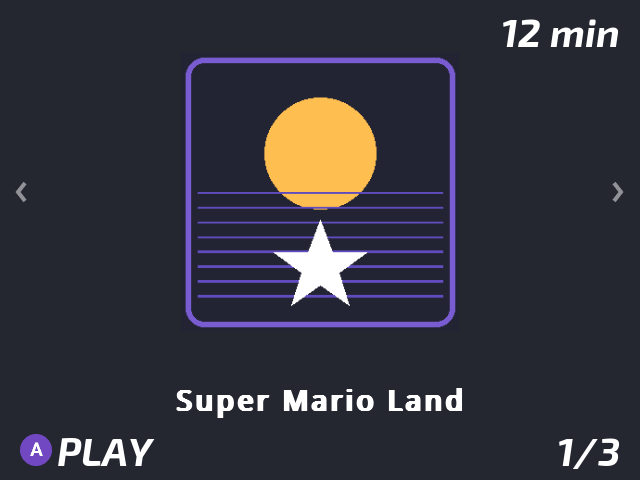
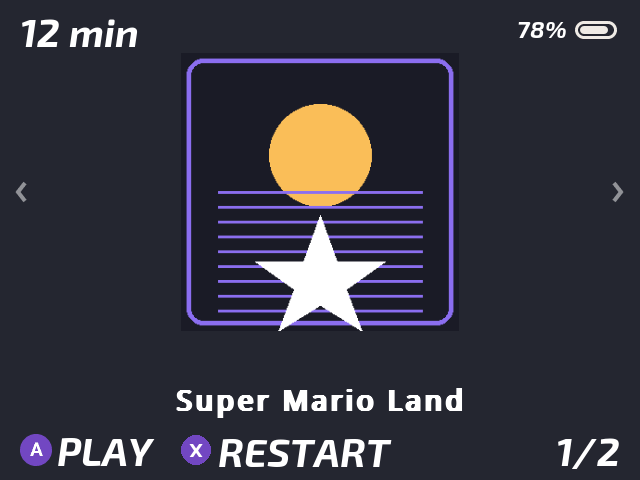
Re-shoot the screenshots, and fix what they exposed
Rebuilt the preview harness the earlier shots came from: kidui compiled
for the host against Onion's common tree with KIDUI_SCREENSHOT_DIR, run
under SDL's dummy driver against a fake SD card carrying Onion's stock
theme. These are real renders from this branch's code, not mockups.

Rendering them immediately found a regression I had shipped: matching the
header chip's font to the battery (as asked) put it in the theme's HINT
face, which is wider than the list font it used to use — so "12 min left"
was drawing as "12 min..." and the add-time preview as "12 -> 17...".
Widening the box wasn't enough without crowding the centred title, so the
strings are shorter now: "12 min", "12 -> 17", "12 -> off". The row
itself supplies the units. Verified by rendering all three variants.

The harness also answers a question I had left open: the X/RESTART icon
renders the right way up. It goes through the same 180-degree loader
correction as the box art, and the host build takes the same path, so
what these show is what the device draws.

Screenshots now show the current UI: battery in Onion's own style top
right, play-time chip moved left, X = RESTART in the footer, and the
parent menu with Brightness, Auto-resume last game and Change PIN.

Claude-Session: https://claude.ai/code/session_011DUEHJHXjMnBq3JQJgX124

diff --git a/src/kidsMode/kidui.c b/src/kidsMode/kidui.c
@@ -797,17 +797,20 @@ static void renderMenu(List *list, int remaining)
     // for) lives as a compact chip on the empty left side of the header bar.
     // The title is centered and starts well to the right, so a short left
     // chip never overlaps it.
+    // Kept short on purpose: the theme's HINT face is wide and the centred
+    // title starts around x=240, so "12 min left" and "12 min -> off" were
+    // being cut to "12 min...". The row itself supplies the units.
     char chip[64] = "";
     int rem_min = remaining >= 0 ? (remaining + 59) / 60 : -1;
     int add_min = list->items[MENU_ADDTIME].value * TIMER_STEP;
     if (rem_min >= 0) {
         if (list->active_pos == MENU_ADDTIME)
-            snprintf(chip, sizeof(chip), "%d \xE2\x86\x92 %d min", rem_min,
+            snprintf(chip, sizeof(chip), "%d \xE2\x86\x92 %d", rem_min,
                      rem_min + add_min);
         else if (list->active_pos == MENU_NOTIMER)
-            snprintf(chip, sizeof(chip), "%d min \xE2\x86\x92 off", rem_min);
+            snprintf(chip, sizeof(chip), "%d \xE2\x86\x92 off", rem_min);
         else
-            snprintf(chip, sizeof(chip), "%d min left", rem_min);
+            snprintf(chip, sizeof(chip), "%d min", rem_min);
     }
     else if (list->active_pos == MENU_ADDTIME) {
         snprintf(chip, sizeof(chip), "+%d min", add_min);
@@ -815,11 +818,9 @@ static void renderMenu(List *list, int remaining)
     else {
         strcpy(chip, "No timer");
     }
-    // Same font as the battery level opposite it, so the header bar reads
-    // as one row rather than two mismatched labels
     drawTextAlign(chip, (int)(20.0 * g_scale), (int)(30.0 * g_scale),
                   resource_getFont(HINT), theme()->hint.color,
-                  (int)(150.0 * g_scale), TEXT_LEFT);
+                  (int)(210.0 * g_scale), TEXT_LEFT);
 
     theme_renderFooter(screen);
     theme_renderStandardHint(screen, "OK", "BACK");

diff --git a/README.md b/README.md
@@ -52,7 +52,7 @@ and an optional play timer.
 
 | ![The kid's carousel](docs/screenshots/carousel.png) | ![Parent menu](docs/screenshots/parent-menu.png) | ![PIN screen](docs/screenshots/pin.png) |
 | :--: | :--: | :--: |
-| *The kid's carousel — one favorite at a time, box art and all; **A** plays* | *Parent menu — a native Onion list: play time, volume/brightness caps, auto-resume and change PIN (shot before the auto-resume row; due a re-shoot)* | *The PIN gate — set once when arming; **A** confirms* |
+| *The kid's carousel — one favorite at a time, box art and all; **A** plays, **X** starts over* | *Parent menu — play time with a live preview in the header, brightness, auto-resume and change PIN* | *The PIN gate — set once when arming; **A** confirms*
 
 *(Rendered with Onion's stock theme — Kids Mode picks up whatever theme
 your device uses.)*
